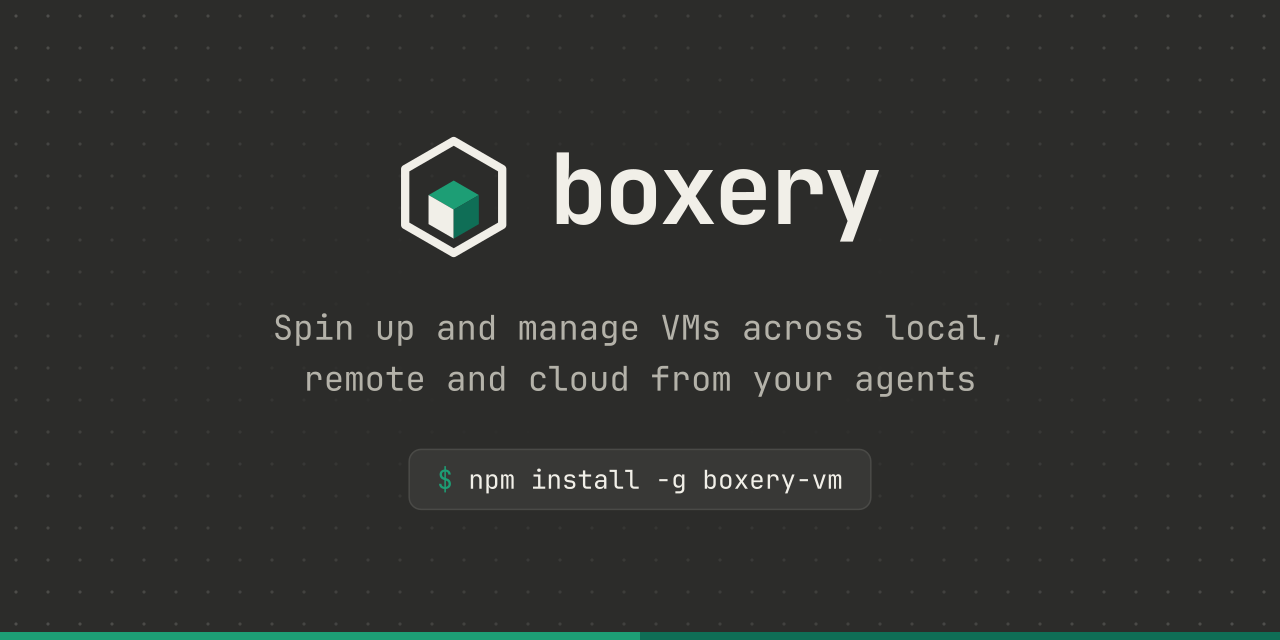
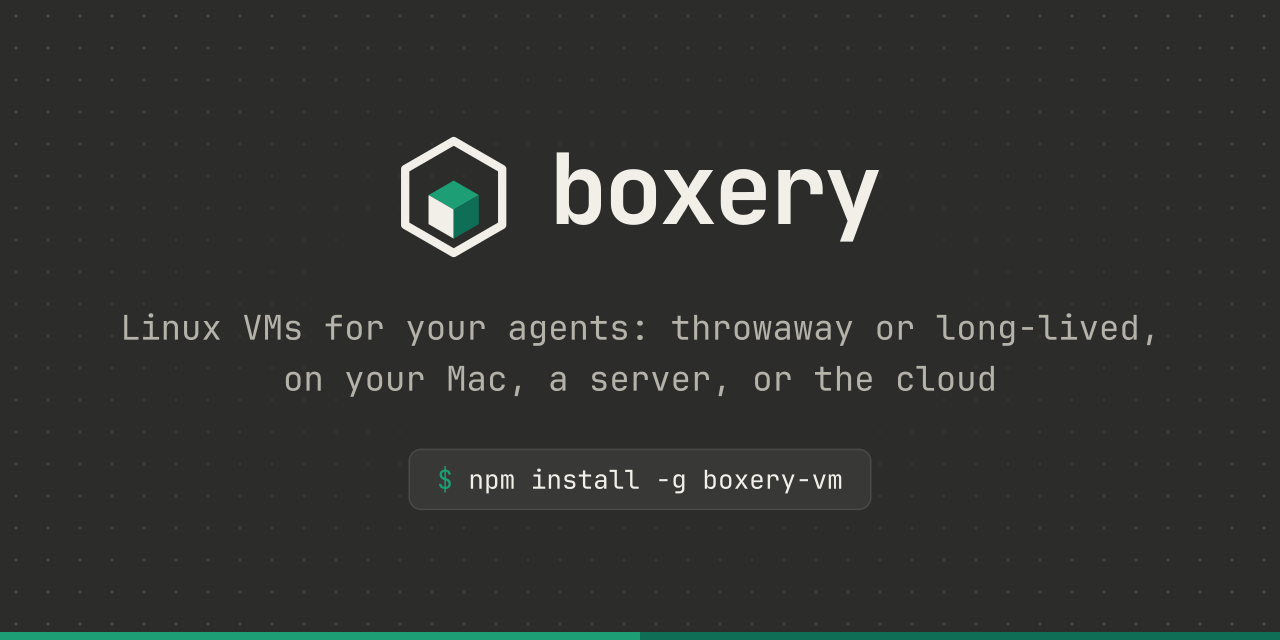
docs(brand): regenerate social cards with the new tagline; lead Why boxery with agents

Changed region(s): [[0.2188, 0.5625, 0.7812, 0.625], [0.0938, 0.4688, 0.9062, 0.5312]]

diff --git a/docs/brand/social-card.py b/docs/brand/social-card.py
@@ -15,7 +15,7 @@ from fontTools.ttLib import TTFont
 
 BRAND = Path(__file__).parent
 FONT = Path(sys.argv[1]) if len(sys.argv) > 1 else Path.home() / "Library/Fonts/JetBrainsMono-Regular.ttf"
-TAGLINE = ["Spin up and manage VMs across local,", "remote and cloud from your agents"]
+TAGLINE = ["Linux VMs for your agents: throwaway or long-lived,", "on your Mac, a server, or the cloud"]
 INSTALL = "npm install -g boxery-vm"
 
 THEMES = {

diff --git a/README.md b/README.md
@@ -60,8 +60,8 @@ boxery lets your agents manage their own Linux VMs: on your Mac, a Linux server,
 
 ## Why boxery
 
-- **Fast.** A full desktop VM in about 13 s on libvirt, or a [headless](docs/cli.md#lifecycle) one with no desktop at all. Snapshot a running VM in about 1 s.
 - **Built for agents.** Agents create, fork and drive VMs themselves over [MCP](docs/mcp.md): Claude Code, Codex, Cursor, opencode or any MCP client, plus a native [pi](docs/pi-extension.md) extension.
+- **Fast.** A full desktop VM in about 13 s on libvirt, or a [headless](docs/cli.md#lifecycle) one with no desktop at all. Snapshot a running VM in about 1 s.
 - **Mix VM providers.** One MCP server drives your Mac, a Linux server and the cloud (exe.dev, boat.dev) [at once](docs/hosts.md), with the same tools on each.
 - **Your credentials never enter a VM.** VMs get a revocable token, and the host swaps in your real key. A VM gets nothing by default, not even an LLM, until you [grant it](docs/grants.md).
 

diff --git a/docs/brand/README.md b/docs/brand/README.md
@@ -49,6 +49,6 @@ The wordmark is JetBrains Mono Bold (SIL Open Font License), converted to outlin
 <meta property="og:image" content="https://raw.githubusercontent.com/benvinegar/boxery/master/docs/brand/og-image-dark.png">
 <meta property="og:image:width" content="1200">
 <meta property="og:image:height" content="630">
-<meta property="og:image:alt" content="boxery: Spin up and manage VMs across local, remote and cloud from your agents">
+<meta property="og:image:alt" content="boxery: Linux VMs for your agents: throwaway or long-lived, on your Mac, a server, or the cloud">
 <meta name="twitter:card" content="summary_large_image">
 ```
